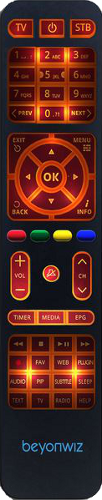
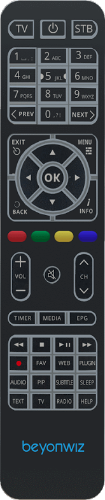
Fixes for Beyonwiz T4 remote image and positions file
Replaced old "backlit" remote image with one derived from artwork.
It's much more readable than the original.

Re-did the locations in rcpositions.xml and remote.html to match
the actual key positions on the T4 remote and re-ordered them to
match the T4 key layout.

The rcpositions.xml and remote.html had been copied from the T3
remore files in ini5. The T3 remote has a different key layout from
the T4 remote.

diff --git a/BoxBranding/remotes/ini7/remote.html b/BoxBranding/remotes/ini7/remote.html
@@ -1,62 +1,63 @@
 <img border='0' src='static/remotes/ini7/rc.png' usemap='#map' >
 <map name="map">
-	<area shape="circle" coords="55,30,12" alt="Power" onclick="pressMenuRemote('116');">
-	<area shape="circle" coords="23,58,12" alt="1" onclick="pressMenuRemote('2');">
-	<area shape="circle" coords="55,58,12" alt="2" onclick="pressMenuRemote('3');">
-	<area shape="circle" coords="87,58,12" alt="3" onclick="pressMenuRemote('4');">
-	<area shape="circle" coords="23,78,12" alt="4" onclick="pressMenuRemote('5');">
-	<area shape="circle" coords="55,78,12" alt="5" onclick="pressMenuRemote('6');">
-	<area shape="circle" coords="87,78,12" alt="6" onclick="pressMenuRemote('7');">
-	<area shape="circle" coords="23,98,12" alt="7" onclick="pressMenuRemote('8');">
-	<area shape="circle" coords="55,98,12" alt="8" onclick="pressMenuRemote('9');">
-	<area shape="circle" coords="87,98,12" alt="9" onclick="pressMenuRemote('10');">
-	<area shape="circle" coords="23,117,12" alt="previous" onclick="pressMenuRemote('412');">
-	<area shape="circle" coords="55,117,12" alt="0" onclick="pressMenuRemote('11');">
-	<area shape="circle" coords="87,117,12" alt="next" onclick="pressMenuRemote('407');">
+	<area shape="circle" coords="52,27,12" alt="Power" onclick="pressMenuRemote('116');">
 
-	<area shape="circle" coords="19,147,12" alt="epg" onclick="pressMenuRemote('365');">
-	<area shape="circle" coords="92,147,12" alt="fav" onclick="pressMenuRemote('364');">
-	<area shape="circle" coords="19,213,12" alt="menu" onclick="pressMenuRemote('139');">
-	<area shape="circle" coords="92,213,12" alt="exit" onclick="pressMenuRemote('174');">
-	
-	<area shape="circle" coords="55,180,15" alt="OK" onclick="pressMenuRemote('352');">
-	<area shape="circle" coords="55,155,12" alt="up" onclick="pressMenuRemote('103');">
-	<area shape="circle" coords="55,205,12" alt="down" onclick="pressMenuRemote('108');">
-	<area shape="circle" coords="30,180,12" alt="left" onclick="pressMenuRemote('105');">
-	<area shape="circle" coords="81,180,12" alt="right" onclick="pressMenuRemote('106');">
-	
-	<area shape="circle" coords="22,244,12" alt="info" onclick="pressMenuRemote('358');">
-	<area shape="circle" coords="55,244,15" alt="media" onclick="pressMenuRemote('226');">
-	<area shape="circle" coords="89,244,12" alt="back" onclick="pressMenuRemote('405');">
-	
-	<area shape="circle" coords="22,272,12" alt="volume up" onclick="pressMenuRemote('115');">
-	<area shape="circle" coords="22,304,12" alt="volume down" onclick="pressMenuRemote('114');">
-	<area shape="circle" coords="55,287,10" alt="mute" onclick="pressMenuRemote('113');">
-	<area shape="circle" coords="88,272,12" alt="channel up" onclick="pressMenuRemote('402');">
-	<area shape="circle" coords="88,304,12" alt="channel down" onclick="pressMenuRemote('403');">
-	
-	<area shape="circle" coords="19,332,10" alt="red" onclick="pressMenuRemote('398');">
-	<area shape="circle" coords="43,332,10" alt="green" onclick="pressMenuRemote('399');">
-	<area shape="circle" coords="67,332,10" alt="yellow" onclick="pressMenuRemote('400');">
-	<area shape="circle" coords="91,332,10" alt="blue" onclick="pressMenuRemote('401');">
+	<area shape="circle" coords="22,56,12" alt="1" onclick="pressMenuRemote('2');">
+	<area shape="circle" coords="52,56,12" alt="2" onclick="pressMenuRemote('3');">
+	<area shape="circle" coords="82,56,12" alt="3" onclick="pressMenuRemote('4');">
+	<area shape="circle" coords="22,75,12" alt="4" onclick="pressMenuRemote('5');">
+	<area shape="circle" coords="52,75,12" alt="5" onclick="pressMenuRemote('6');">
+	<area shape="circle" coords="82,75,12" alt="6" onclick="pressMenuRemote('7');">
+	<area shape="circle" coords="22,95,12" alt="7" onclick="pressMenuRemote('8');">
+	<area shape="circle" coords="52,95,12" alt="8" onclick="pressMenuRemote('9');">
+	<area shape="circle" coords="82,95,12" alt="9" onclick="pressMenuRemote('10');">
+	<area shape="circle" coords="22,114,12" alt="previous" onclick="pressMenuRemote('412');">
+	<area shape="circle" coords="52,114,12" alt="0" onclick="pressMenuRemote('11');">
+	<area shape="circle" coords="82,114,12" alt="next" onclick="pressMenuRemote('407');">
 
-	<area shape="circle" coords="19,352,10" alt="rewind" onclick="pressMenuRemote('168');">
-	<area shape="circle" coords="43,352,10" alt="playpause" onclick="pressMenuRemote('164');">
-	<area shape="circle" coords="67,352,10" alt="stop" onclick="pressMenuRemote('128');">
-	<area shape="circle" coords="91,352,10" alt="forward" onclick="pressMenuRemote('208');">
+	<area shape="circle" coords="19,145,12" alt="exit" onclick="pressMenuRemote('174');">
+	<area shape="circle" coords="86,145,12" alt="menu" onclick="pressMenuRemote('139');">
+	<area shape="circle" coords="19,208,12" alt="back" onclick="pressMenuRemote('405');">
+	<area shape="circle" coords="86,208,12" alt="info" onclick="pressMenuRemote('358');">
 
-	<area shape="circle" coords="19,370,10" alt="record" onclick="pressMenuRemote('167');">
-	<area shape="circle" coords="43,370,10" alt="timer" onclick="pressMenuRemote('362');">
-	<area shape="circle" coords="67,370,10" alt="web" onclick="pressMenuRemote('217');">
-	<area shape="circle" coords="91,370,10" alt="plugin" onclick="pressMenuRemote('156');">
+	<area shape="circle" coords="52,177,15" alt="OK" onclick="pressMenuRemote('352');">
+	<area shape="circle" coords="52,153,12" alt="up" onclick="pressMenuRemote('103');">
+	<area shape="circle" coords="52,201,12" alt="down" onclick="pressMenuRemote('108');">
+	<area shape="circle" coords="28,177,12" alt="left" onclick="pressMenuRemote('105');">
+	<area shape="circle" coords="76,177,12" alt="right" onclick="pressMenuRemote('106');">
 	
-	<area shape="circle" coords="19,398,10" alt="audio" onclick="pressMenuRemote('392');">
-	<area shape="circle" coords="43,398,10" alt="pip" onclick="pressMenuRemote('375');">
-	<area shape="circle" coords="67,398,10" alt="subtitle" onclick="pressMenuRemote('370');">
-	<area shape="circle" coords="91,398,10" alt="sleep" onclick="pressMenuRemote('142');">
+	<area shape="circle" coords="17,235,12" alt="red" onclick="pressMenuRemote('398');">
+	<area shape="circle" coords="41,235,12" alt="green" onclick="pressMenuRemote('399');">
+	<area shape="circle" coords="63,235,12" alt="yellow" onclick="pressMenuRemote('400');">
+	<area shape="circle" coords="87,235,12" alt="blue" onclick="pressMenuRemote('401');">
 
-	<area shape="circle" coords="19,416,10" alt="text" onclick="pressMenuRemote('388');">
-	<area shape="circle" coords="43,416,10" alt="tv" onclick="pressMenuRemote('377');">
-	<area shape="circle" coords="67,416,10" alt="radio" onclick="pressMenuRemote('385');">
-	<area shape="circle" coords="91,416,10" alt="help" onclick="pressMenuRemote('138');">
+	<area shape="circle" coords="20,262,12" alt="volume up" onclick="pressMenuRemote('115');">
+	<area shape="circle" coords="20,290,12" alt="volume down" onclick="pressMenuRemote('114');">
+	<area shape="circle" coords="52,275,12" alt="mute" onclick="pressMenuRemote('113');">
+	<area shape="circle" coords="84,262,12" alt="channel up" onclick="pressMenuRemote('402');">
+	<area shape="circle" coords="84,290,12" alt="channel down" onclick="pressMenuRemote('403');">
+	
+	<area shape="circle" coords="22,317,12" alt="timer" onclick="pressMenuRemote('362');">
+	<area shape="circle" coords="52,317,12" alt="media" onclick="pressMenuRemote('226');">
+	<area shape="circle" coords="82,317,12" alt="epg" onclick="pressMenuRemote('365');">
+
+	<area shape="circle" coords="18,344,10" alt="rewind" onclick="pressMenuRemote('168');">
+	<area shape="circle" coords="40,344,10" alt="stop" onclick="pressMenuRemote('128');">
+	<area shape="circle" coords="64,344,10" alt="playpause" onclick="pressMenuRemote('164');">
+	<area shape="circle" coords="86,344,10" alt="forward" onclick="pressMenuRemote('208');">
+
+	<area shape="circle" coords="18,363,10" alt="record" onclick="pressMenuRemote('167');">
+	<area shape="circle" coords="40,363,10" alt="fav" onclick="pressMenuRemote('364');">
+	<area shape="circle" coords="64,363,10" alt="web" onclick="pressMenuRemote('217');">
+	<area shape="circle" coords="86,363,10" alt="plugin" onclick="pressMenuRemote('156');">
+	
+	<area shape="circle" coords="18,382,10" alt="audio" onclick="pressMenuRemote('392');">
+	<area shape="circle" coords="40,382,10" alt="pip" onclick="pressMenuRemote('375');">
+	<area shape="circle" coords="64,382,10" alt="subtitle" onclick="pressMenuRemote('370');">
+	<area shape="circle" coords="86,382,10" alt="sleep" onclick="pressMenuRemote('142');">
+
+	<area shape="circle" coords="18,401,10" alt="text" onclick="pressMenuRemote('388');">
+	<area shape="circle" coords="40,401,10" alt="tv" onclick="pressMenuRemote('377');">
+	<area shape="circle" coords="64,401,10" alt="radio" onclick="pressMenuRemote('385');">
+	<area shape="circle" coords="86,401,10" alt="help" onclick="pressMenuRemote('138');">
 </map>
